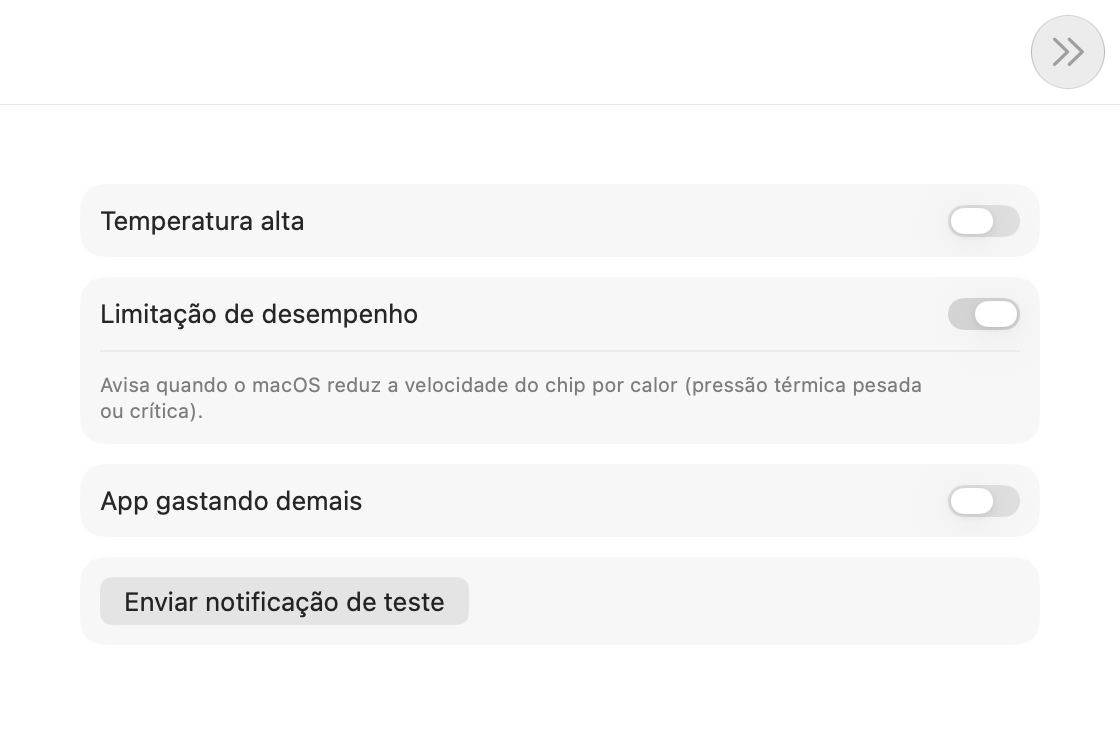
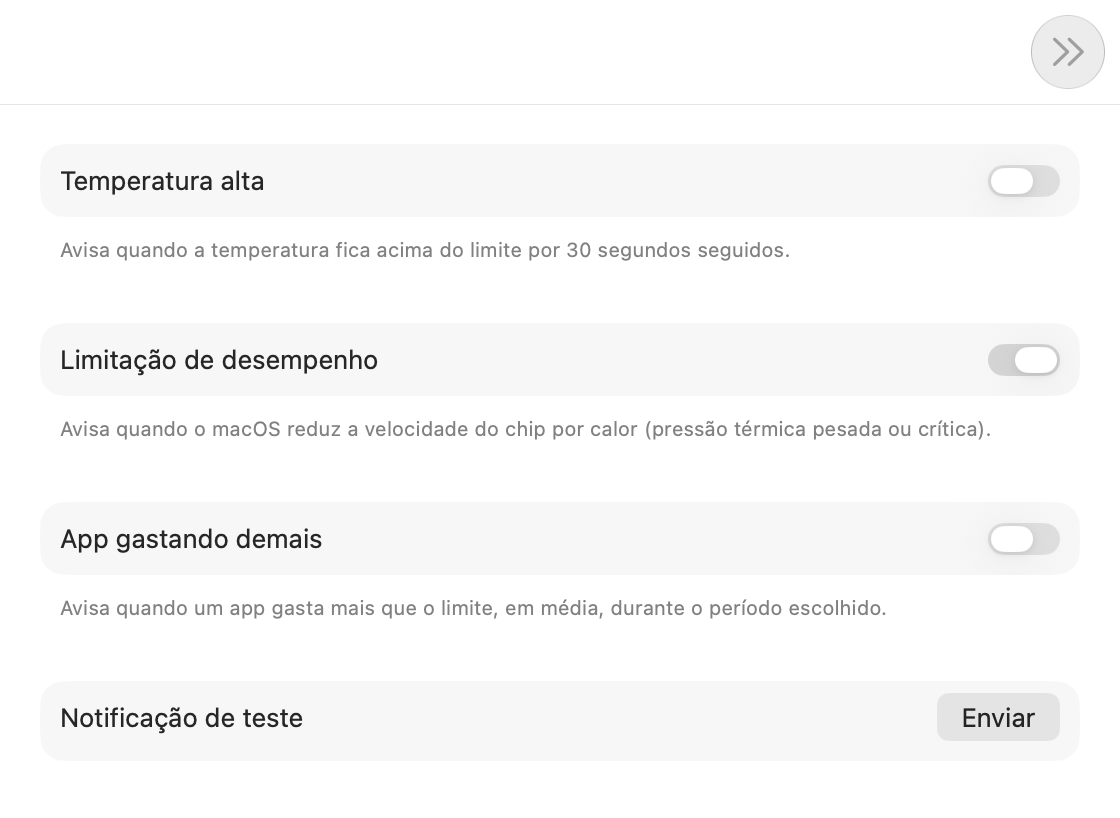
Revisa o layout dos Ajustes e adiciona a aba Sobre
- Textos de apoio viram rodapé de seção, como nos Ajustes do Sistema,
  em vez de linhas soltas dentro do cartão.
- Botões ficam à direita de um rótulo; "Apagar…" aparece em vermelho.
- Precisão passa a usar cartões, com ícones alinhados e aspas tipográficas.
- Sem scenePadding: o espaço no topo fica igual ao do macOS.
- Barra de menus mostra a partir de quantos graus a temperatura é colorida.
- Aba Sobre com ícone, versão, copyright (NSHumanReadableCopyright) e um
  botão que copia as informações do sistema para pedidos de suporte.

diff --git a/TermoBar/UI/Settings/MethodologyView.swift b/TermoBar/UI/Settings/MethodologyView.swift
@@ -2,46 +2,51 @@ import SwiftUI
 
 /// Como cada número é medido, dentro do app.
 struct MethodologyView: View {
-    private static let topics: [(title: String, text: String)] = [
+    private static let topics: [(title: String, symbol: String, text: String)] = [
         (
-            "Temperatura",
+            "Temperatura", "thermometer.medium",
             "Lida direto dos sensores do die do chip, a cada segundo, sem privilégio de administrador. Cada registro é a média das leituras do intervalo, o que tira o ruído sem esconder picos: o ponto mais quente é guardado à parte."
         ),
         (
-            "Energia de CPU por app",
-            "Contador de energia que o próprio kernel mantém para cada processo, em joules físicos — não é uma estimativa como o \"Impacto de Energia\" do Monitor de Atividade. Um núcleo de desempenho a 100% marca cerca de 6,5 W num M5."
+            "Energia de CPU por app", "cpu",
+            "Contador de energia que o próprio kernel mantém para cada processo, em joules físicos — não é uma estimativa como o “Impacto de Energia” do Monitor de Atividade. Um núcleo de desempenho a 100% marca cerca de 6,5 W num M5."
         ),
         (
-            "Energia de GPU por app",
+            "Energia de GPU por app", "square.3.layers.3d",
             "A energia total da GPU, medida pelo chip, é dividida entre os processos na proporção do tempo de GPU que cada um usou no intervalo."
         ),
         (
-            "Agrupamento",
+            "Agrupamento", "rectangle.3.group",
             "Cada processo conta para o app responsável por ele, como no Monitor de Atividade: helpers do navegador vão para o navegador, compiladores lançados no terminal vão para o terminal."
         ),
         (
-            "Limites",
+            "Limites", "lock",
             "A CPU de processos do sistema que rodam como administrador (como o kernel) não é legível sem privilégio e fica de fora. A GPU do WindowServer, que desenha a tela, entra na conta."
         ),
         (
-            "Limitação térmica",
-            "Vem da pressão térmica publicada pelo kernel. A partir do nível \"pesada\" o macOS reduz a frequência do chip; esses trechos aparecem destacados no gráfico."
+            "Limitação térmica", "flame",
+            "Vem da pressão térmica publicada pelo kernel. A partir do nível “pesada” o macOS reduz a frequência do chip; esses trechos aparecem destacados no gráfico."
         ),
     ]
 
     var body: some View {
-        ScrollView {
-            VStack(alignment: .leading, spacing: 14) {
-                ForEach(Self.topics, id: \.title) { topic in
-                    VStack(alignment: .leading, spacing: 4) {
-                        Text(topic.title).font(.headline)
+        Form {
+            ForEach(Self.topics, id: \.title) { topic in
+                Section {
+                    VStack(alignment: .leading, spacing: 6) {
+                        HStack(spacing: 8) {
+                            // Largura fixa: os títulos alinham mesmo com símbolos de larguras diferentes.
+                            Image(systemName: topic.symbol).frame(width: 22)
+                            Text(topic.title)
+                        }
+                        .font(.headline)
                         Text(topic.text).foregroundStyle(.secondary).fixedSize(horizontal: false, vertical: true)
                     }
+                    .padding(.vertical, 2)
                 }
             }
-            .frame(maxWidth: .infinity, alignment: .leading)
-            .padding(4)
         }
-        .frame(minHeight: 380)
+        .formStyle(.grouped)
+        .frame(height: 520)
     }
 }

diff --git a/TermoBar/UI/Settings/DataSettingsView.swift b/TermoBar/UI/Settings/DataSettingsView.swift
@@ -10,24 +10,42 @@ struct DataSettingsView: View {
     var body: some View {
         @Bindable var preferences = preferences
         Form {
-            Picker("Guardar histórico por", selection: $preferences.retentionDays) {
-                Text("7 dias").tag(7)
-                Text("30 dias").tag(30)
-                Text("90 dias").tag(90)
-            }
-            SettingsFootnote(
-                "As leituras finas ficam 24 horas; depois disso fica o resumo por minuto. Tudo fica só neste Mac, sem envio de dados."
-            )
-            Section("Exportar CSV") {
-                Button("Últimas 24 horas, leitura a leitura…") { export(.raw, fileName: "TermoBar-24h.csv") }
-                Button("Histórico completo, por minuto…") { export(.minute, fileName: "TermoBar-historico.csv") }
-                if let exportMessage { SettingsFootnote(exportMessage) }
+            Section {
+                Picker("Guardar histórico por", selection: $preferences.retentionDays) {
+                    Text("7 dias").tag(7)
+                    Text("30 dias").tag(30)
+                    Text("90 dias").tag(90)
+                }
+            } footer: {
+                SettingsFootnote(
+                    "As leituras finas ficam 24 horas; depois disso fica o resumo por minuto. Tudo fica só neste Mac, sem envio de dados."
+                )
             }
             Section {
-                Button("Mostrar no Finder") {
-                    NSWorkspace.shared.activateFileViewerSelecting([HistoryStore.defaultURL])
+                LabeledContent("Últimas 24 horas, leitura a leitura") {
+                    Button("Exportar…") { export(.raw, fileName: "TermoBar-24h.csv") }
                 }
-                Button("Apagar histórico…", role: .destructive) { isConfirmingClear = true }
+                LabeledContent("Histórico completo, por minuto") {
+                    Button("Exportar…") { export(.minute, fileName: "TermoBar-historico.csv") }
+                }
+            } header: {
+                Text("Exportar CSV")
+            } footer: {
+                if let exportMessage { SettingsFootnote(exportMessage) }
+            }
+            Section("Histórico neste Mac") {
+                LabeledContent("Arquivo do histórico") {
+                    Button("Mostrar no Finder") {
+                        NSWorkspace.shared.activateFileViewerSelecting([HistoryStore.defaultURL])
+                    }
+                }
+                LabeledContent("Apagar todas as leituras") {
+                    Button(role: .destructive) {
+                        isConfirmingClear = true
+                    } label: {
+                        Text("Apagar…").foregroundStyle(Theme.critical)
+                    }
+                }
             }
         }
         .formStyle(.grouped)

diff --git a/TermoBar/UI/Settings/GeneralSettingsView.swift b/TermoBar/UI/Settings/GeneralSettingsView.swift
@@ -8,27 +8,37 @@ struct GeneralSettingsView: View {
         @Bindable var preferences = preferences
         @Bindable var launchAtLogin = launchAtLogin
         Form {
-            Picker("Unidade", selection: $preferences.unit) {
-                ForEach(TemperatureUnit.allCases) { Text($0.label).tag($0) }
+            Section {
+                Picker("Unidade", selection: $preferences.unit) {
+                    ForEach(TemperatureUnit.allCases) { Text($0.label).tag($0) }
+                }
+                Picker("Casas decimais", selection: $preferences.decimals) {
+                    Text("Nenhuma (79°)").tag(0)
+                    Text("Uma (79,4°)").tag(1)
+                }
             }
-            Picker("Casas decimais", selection: $preferences.decimals) {
-                Text("Nenhuma (79°)").tag(0)
-                Text("Uma (79,4°)").tag(1)
+            Section {
+                Picker("Temperatura exibida", selection: $preferences.source) {
+                    ForEach(TemperatureSource.allCases) { Text($0.label).tag($0) }
+                }
+            } footer: {
+                SettingsFootnote(
+                    "A média reúne os sensores do die do chip e é a mais estável. O ponto mais quente mostra o sensor de maior leitura e reage mais rápido a picos."
+                )
             }
-            Picker("Temperatura exibida", selection: $preferences.source) {
-                ForEach(TemperatureSource.allCases) { Text($0.label).tag($0) }
+            Section {
+                Picker("Intervalo de registro", selection: $preferences.sampleInterval) {
+                    Text("2 segundos").tag(2.0)
+                    Text("5 segundos").tag(5.0)
+                    Text("10 segundos").tag(10.0)
+                }
+            } footer: {
+                SettingsFootnote(
+                    "Os sensores são lidos a cada segundo; cada registro guarda a média das leituras do intervalo.")
             }
-            SettingsFootnote(
-                "A média reúne os sensores do die do chip e é a mais estável. O ponto mais quente mostra o sensor de maior leitura e reage mais rápido a picos."
-            )
-            Picker("Intervalo de registro", selection: $preferences.sampleInterval) {
-                Text("2 segundos").tag(2.0)
-                Text("5 segundos").tag(5.0)
-                Text("10 segundos").tag(10.0)
+            Section {
+                Toggle("Abrir ao iniciar sessão", isOn: $launchAtLogin.isEnabled)
             }
-            SettingsFootnote(
-                "Os sensores são lidos a cada segundo; cada registro guarda a média das leituras do intervalo.")
-            Toggle("Abrir ao iniciar sessão", isOn: $launchAtLogin.isEnabled)
         }
         .formStyle(.grouped)
     }

diff --git a/TermoBar/UI/Settings/AboutView.swift b/TermoBar/UI/Settings/AboutView.swift
@@ -1,0 +1,72 @@
+import SwiftUI
+
+/// Ícone, versão e informações para suporte, como na aba Sobre de apps independentes para Mac.
+struct AboutView: View {
+    @State private var didCopy = false
+
+    var body: some View {
+        VStack(spacing: 16) {
+            Image(nsImage: NSApp.applicationIconImage)
+                .resizable()
+                .frame(width: 128, height: 128)
+                .accessibilityHidden(true)
+
+            VStack(spacing: 4) {
+                Text("TermoBar").font(.system(size: 28, weight: .bold))
+                Text("Versão \(Self.version) (\(Self.build))")
+                    .foregroundStyle(.secondary)
+                    .monospacedDigit()
+                    .textSelection(.enabled)
+            }
+
+            Text("Temperatura do chip e energia por app, direto na barra de menus.")
+                .multilineTextAlignment(.center)
+
+            HStack(spacing: 12) {
+                Button(didCopy ? "Copiado" : "Copiar informações do sistema", action: copySystemInfo)
+                    .help("Versão do app, do macOS e o chip, para pedidos de suporte")
+            }
+
+            Divider().padding(.vertical, 4)
+
+            VStack(spacing: 6) {
+                Label("Tudo fica neste Mac: o TermoBar não coleta nem envia dados.", systemImage: "lock.shield")
+                    .foregroundStyle(.secondary)
+                if let copyright = Self.copyright {
+                    Text(copyright).foregroundStyle(.tertiary)
+                }
+            }
+            .font(.callout)
+        }
+        .padding(32)
+        .frame(maxWidth: .infinity)
+    }
+
+    private func copySystemInfo() {
+        NSPasteboard.general.clearContents()
+        NSPasteboard.general.setString(Self.systemInfo, forType: .string)
+        didCopy = true
+        Task {
+            try? await Task.sleep(for: .seconds(2))
+            didCopy = false
+        }
+    }
+
+    private static func info(_ key: String) -> String? {
+        Bundle.main.object(forInfoDictionaryKey: key) as? String
+    }
+
+    private static let version = info("CFBundleShortVersionString") ?? "?"
+    private static let build = info("CFBundleVersion") ?? "?"
+    private static let copyright = info("NSHumanReadableCopyright")
+
+    private static var systemInfo: String {
+        let os = ProcessInfo.processInfo.operatingSystemVersion
+        let patch = os.patchVersion > 0 ? ".\(os.patchVersion)" : ""
+        return """
+            TermoBar \(version) (\(build))
+            macOS \(os.majorVersion).\(os.minorVersion)\(patch)
+            \(SystemInfo.chipName)
+            """
+    }
+}

diff --git a/TermoBar/UI/Settings/AlertSettingsView.swift b/TermoBar/UI/Settings/AlertSettingsView.swift
@@ -9,24 +9,30 @@ struct AlertSettingsView: View {
         Form {
             if alerts.isDenied {
                 Section {
-                    Label("Notificações desativadas", systemImage: "bell.slash.fill")
-                        .foregroundStyle(Theme.critical)
+                    LabeledContent {
+                        Button("Abrir Ajustes…") {
+                            if let url = Self.notificationSettingsURL { NSWorkspace.shared.open(url) }
+                        }
+                    } label: {
+                        Label("Notificações desativadas", systemImage: "bell.slash.fill")
+                            .foregroundStyle(Theme.critical)
+                    }
+                } footer: {
                     SettingsFootnote(
                         "O macOS está bloqueando as notificações do TermoBar, e os alertas não vão aparecer.")
-                    Button("Abrir Ajustes de Notificações") {
-                        if let url = Self.notificationSettingsURL { NSWorkspace.shared.open(url) }
-                    }
                 }
             }
             Section {
                 Toggle("Temperatura alta", isOn: $preferences.alertTemperature)
                 if preferences.alertTemperature {
                     TemperatureStepper(title: "Avisar acima de", celsius: $preferences.alertTemperatureLimit)
-                    SettingsFootnote("O aviso sai quando a temperatura fica acima do limite por 30 segundos seguidos.")
                 }
+            } footer: {
+                SettingsFootnote("Avisa quando a temperatura fica acima do limite por 30 segundos seguidos.")
             }
             Section {
                 Toggle("Limitação de desempenho", isOn: $preferences.alertThrottling)
+            } footer: {
                 SettingsFootnote(
                     "Avisa quando o macOS reduz a velocidade do chip por calor (pressão térmica pesada ou crítica).")
             }
@@ -40,9 +46,13 @@ struct AlertSettingsView: View {
                         LabeledContent("Em média por", value: "\(Int(preferences.alertAppMinutes)) min")
                     }
                 }
+            } footer: {
+                SettingsFootnote("Avisa quando um app gasta mais que o limite, em média, durante o período escolhido.")
             }
             Section {
-                Button("Enviar notificação de teste") { alerts.sendTestNotification() }
+                LabeledContent("Notificação de teste") {
+                    Button("Enviar") { alerts.sendTestNotification() }
+                }
             }
         }
         .formStyle(.grouped)

diff --git a/TermoBar/UI/Settings/MenuBarSettingsView.swift b/TermoBar/UI/Settings/MenuBarSettingsView.swift
@@ -14,13 +14,22 @@ struct MenuBarSettingsView: View {
                         .background(.fill.tertiary, in: RoundedRectangle(cornerRadius: 6, style: .continuous))
                 }
             }
-            Picker("Mostrar", selection: $preferences.menuBarStyle) {
-                ForEach(MenuBarStyle.allCases) { Text($0.label).tag($0) }
+            Section {
+                Picker("Mostrar", selection: $preferences.menuBarStyle) {
+                    ForEach(MenuBarStyle.allCases) { Text($0.label).tag($0) }
+                }
             }
-            Toggle("Colorir a temperatura quando estiver quente", isOn: $preferences.colorWhenHot)
-            Toggle("Mostrar só o ícone enquanto estiver frio", isOn: $preferences.compactWhenCool)
-            if preferences.compactWhenCool {
-                TemperatureStepper(title: "Mostrar a temperatura a partir de", celsius: $preferences.compactThreshold)
+            Section {
+                Toggle("Colorir a temperatura quando estiver quente", isOn: $preferences.colorWhenHot)
+            } footer: {
+                SettingsFootnote("A partir de \(preferences.format(Theme.hotTemperature, decimals: 0)).")
+            }
+            Section {
+                Toggle("Mostrar só o ícone enquanto estiver frio", isOn: $preferences.compactWhenCool)
+                if preferences.compactWhenCool {
+                    TemperatureStepper(
+                        title: "Mostrar a temperatura a partir de", celsius: $preferences.compactThreshold)
+                }
             }
         }
         .formStyle(.grouped)

diff --git a/TermoBar/UI/Settings/SettingsView.swift b/TermoBar/UI/Settings/SettingsView.swift
@@ -7,6 +7,7 @@ enum SettingsTab: String, CaseIterable {
     case sensors = "sensores"
     case data = "dados"
     case methodology = "precisao"
+    case about = "sobre"
 }
 
 /// Janela de Ajustes.
@@ -21,9 +22,10 @@ struct SettingsView: View {
             Tab("Sensores", systemImage: "sensor", value: .sensors) { SensorSettingsView() }
             Tab("Dados", systemImage: "externaldrive", value: .data) { DataSettingsView() }
             Tab("Precisão", systemImage: "scope", value: .methodology) { MethodologyView() }
+            Tab("Sobre", systemImage: "info.circle", value: .about) { AboutView() }
         }
-        .frame(width: 520)
-        .scenePadding()
+        // O Form agrupado já tem margens próprias; sem `scenePadding` o espaçamento fica igual ao do macOS.
+        .frame(width: 560)
     }
 }
 
